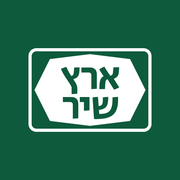
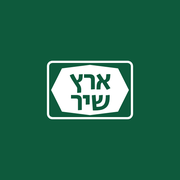
סמל: שלט קטן יותר שנכנס במסכת האנדרואיד
Claude-Session: https://claude.ai/code/session_01UUzZPmfJaYqwYMxHsoFh6C

Changed region(s): [[0.1389, 0.25, 0.8611, 0.75]]

diff --git a/index.html b/index.html
@@ -4,8 +4,8 @@
 <meta charset="utf-8">
 <meta name="viewport" content="width=device-width,initial-scale=1,viewport-fit=cover">
 <meta name="theme-color" content="#14201b">
-<link rel="manifest" href="manifest.json?v=3">
-<link rel="apple-touch-icon" href="icon-180.png?v=3">
+<link rel="manifest" href="manifest.json?v=4">
+<link rel="apple-touch-icon" href="icon-180.png?v=4">
 <meta name="apple-mobile-web-app-capable" content="yes">
 <meta name="mobile-web-app-capable" content="yes">
 <meta name="apple-mobile-web-app-title" content="ארץ שיר">
